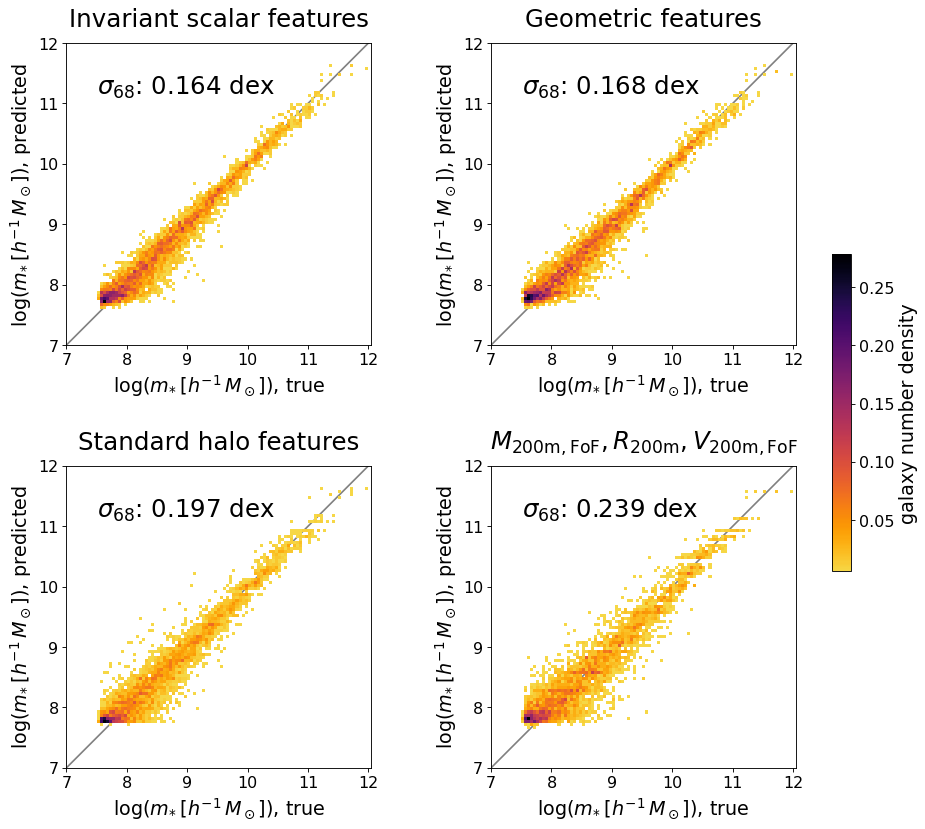
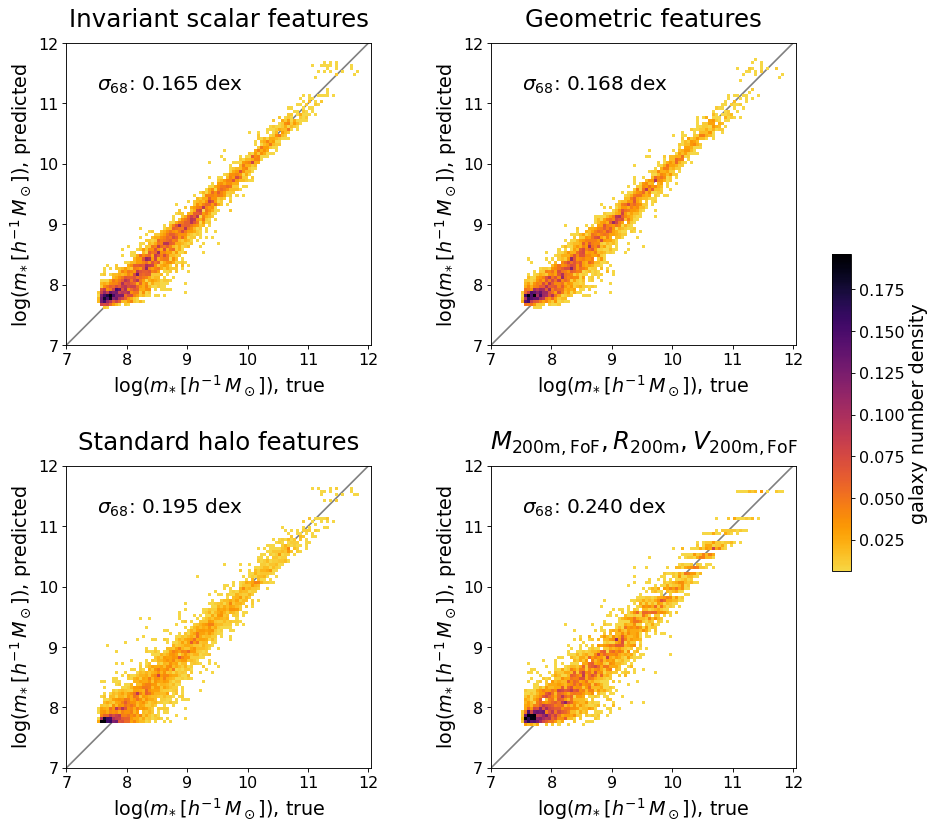
updated eqcosmo figures

diff --git a/chapters/eqcosmo.tex b/chapters/eqcosmo.tex
@@ -146,21 +146,22 @@ The merger trees are run on halos found with the \textsc{rockstar} \citep{behroo
 
 We consider the most massive progenitor branch of the assembly history of each \dark halo in our sample.
 We compile the mass of the halo's most massive progenitor for each of the TNG snapshots. 
-A natural quantity to try to predict would be the fraction of the $z=0$ halo mass accreted as a function of redshift.
+A natural quantity to try to predict would be the mass of the most massive progenitor halo as a function of redshift; this could be made dimensionless  by considering the fraction of mass accreted by the halo's most massive progenitor compared to its $z=0$ mass.
 However, different halos can be traced back to different redshifts, and this inconsistency causes difficulties at the prediction stage.
-We thus choose to learn the scale factor $a$ (related to the redshift $z$ by $a=1/(1+z)$) at which the halo has accreted a given fraction of its mass, $M_\mathrm{vir}(a)$/$M_\mathrm{vir}(a=1)$, where $M_\mathrm{vir}$ is given by the \field{HalopropMvir} field of the SC-SAM data and $a=1$ is the present day.
-This swapped quantity gets at the same information as the natural quantity but is more stable in predictions.
-We compute this at XXX linearly spaced mass fractions between 0 and 1 (exclusive). 
+We thus choose to learn the scale factor $a$ (related to the redshift $z$ by $a=1/(1+z)$) at which the halo has accreted a given fraction of its mass along the most massive progenitor branch, $M_\mathrm{vir}(a)$/$M_\mathrm{vir}(a=1)$, where $M_\mathrm{vir}$ is given by the \field{HalopropMvir} field (equivalent to the TNG field \field{Group\_M\_TopHat200}) of the SC-SAM data and $a=1$ is the present day.
+(We note that this is a different mass definition than that used throughout this work, but we only consider mass ratios so we expect this will not matter.)
+This swapped quantity, the scale factor $a$ as a function of mass fraction, gets at the same information as the natural quantity but is more stable in predictions.
+We compute this at mass fractions linearly spaced by 0.025 between 0 and 1 (exclusive), giving 39 values. 
 As we only have the history at a finite number of snapshots, we perform a linear interpolation between the mass fractions and scale factors to estimate the scale factor at a given mass fraction.
-If the target mass fraction is outside the bounds of the data (for example, if the initial mass of the halo was a larger mass fraction than our tabulated values), we assign the scale factor to be that at which the mass fraction is closest.  
+If the target mass fraction is outside the bounds of the data (for example, if the initial mass of the halo was a larger mass fraction than our tabulated values), we assign the scale factor to be that at which the mass fraction is closest.
 
 
 
-\subsection{Galaxy properties}
+\subsection{Baryonic properties and uncertainties}
 \label{sec:galprops}
 
 % TODO: add uncertainty info here
-We aim to predict the properties of central galaxies hosted by a given dark matter halo.
+One of the aims of this work is to predict the baryonic properties of central galaxies hosted by a given dark matter halo.
 In this section we detail these properties and the associated choices we make. 
 We choose to predict only scalar properties for this work, as we focus on enforcing \emph{invariance} to physical symmetries, though we could also predict vector and higher order properties and enforce \emph{equivaraince}.
 
@@ -178,6 +179,12 @@ The $\mbh$ value is that given by the TNG field \field{SubhaloBHMass} of the sub
 For galaxies with zero black hole mass, we assign the value to be half of the minimum black hole mass in our sample. 
 We use the $g-i$ color comptuted from synthetic SDSS photometry as provided by the TNG project \citep{nelson_first_2018}; the photometry is in units of AB magnitudes. 
 The distributions of these properties as a function of \dark halo mass are shown in the left column of Figure~\ref{fig:galprops}.
+
+We estimate the uncertainties on these baryonic properties based on the effects of small initial perturbations in cosmological simulations and how these propogate to differences in baryonic properties over time.
+We quantify this using the simulations of \cite{Genel2019}, which are pairs of IllustrisTNG with small random initial particle displacements.
+The $z=0$ galaxies are then matched across the pairs, and the pairwise differences between their properties can be computed; the standard deviations of these pairwise differences represent a lower limit on the retrievable information on the properties.
+We refer to this as the chaotic limit, and use it as a comparison for our baryonic property predictions.
+Specifically, we use the $\epsilon=1$ resolution level simulations which is similar to but slightly worse than the resolution of TNG100-1, so the limit is slightly optimistic (the true lower limit is actually lower than the limit shown).
 
 
 \section{The invariant scalars approach}
@@ -453,7 +460,7 @@ It is also possible that the other symmetries are more dominant; in future work 
 
 \begin{figure}
     \centering
-    \includegraphics[width=0.8\columnwidth]{pred_galprops.png}
+    \includegraphics[width=0.87\columnwidth]{pred_galprops.png}
     \caption{Distributions and predictions of galaxy properties using our invariant scalars approach and other benchmark feature sets, for the test sample. 
     Each row shows a different galaxy property: stellar mass $\mstellar$, specific star formation rate $\ssfr$, stellar radius $\rstellar$, specific stellar angular momentum $\jstellar$, $\gminusi$ color, and black hole mass per stellar mass $\mbhpermstellar$. 
     The left column shows the property as a function of halo mass $\Mfof$. 
@@ -489,29 +496,38 @@ The clearest improvements of the scalars over the standard features are seen in 
 Similarly to the stellar mass case, we do not see a clear difference between predictions with the scalar features and geometric features, indicating that the model is able to learn the rotational invariance from the data even when the features are not invariant.
 
 
-\subsection{The mass assembly history encoded in the present-day halo shape}
+\subsection{Predicting the halo mass assembly history}
 
 
 \begin{figure}
     \centering
-    %\includegraphics[width=0.5\columnwidth]{pred_mah.png}
-    \caption{The predicted mass assembly history of a halo based on the invariant shape scalars. The top panel shows the MAHs of a random selection of halos from the test set, and the predicted scale factor at each mass fraction. The middle panel shows the fractional residuals between the two, and the bottom shows the inner 68th percentile of the predictions for all of our test set, compared to that of the distribution of MAHs used in training. \ksf{rn im plotting test set for latter, make sure to switch to test!}}
+    \includegraphics[width=0.6\columnwidth]{pred_amfrac.png}
+    \caption{The predicted mass assembly history (MAH) of a halo based on the invariant shape scalars, parameterized by the scale factor at which the halo's most massive progenitor accreted a given fraction of its mass. The top panel shows the MAHs of a random selection of halos from the test set (closed circles), and the predicted scale factor at each mass fraction. The middle panel shows the fractional residuals between the two, and the bottom shows the inner 68th percentile of the predictions for all of our test set, compared to that of the distribution of MAHs used in training. \ksf{rn im plotting test set for latter, make sure to switch to test!}}
     \label{fig:mah}
 \end{figure}
 
 
-\subsection{Understanding the relative importance of the halo shape features}
-
-The feature subsets we consider are: only mass features; mass and position features; mass and velocity features; mass, position and velocity features.
-We also investigate limiting to certain orders in $O(x)+O(v)$: 0, 2, and 4.
-Finally, we consider different numbers of bins, as well as excluding cross-bins.
-
-\begin{figure}
+\begin{figure*}
     \centering
-    %\includegraphics{}
-    \caption{The precision on the predictions of the given property when using the denoted subset of invariant scalars.}
-    \label{fig:features}
-\end{figure}
+    \subfloat[\label{fig:pred_amfrac_hi}]{\includegraphics[width=0.45\textwidth]{pred_amfrac_hi.png}}
+    \hspace{2em}
+    \subfloat[\label{fig:pred_amfrac_lo}]{\includegraphics[width=0.45\textwidth]{pred_amfrac_lo.png}}
+    \caption{}
+\end{figure*}
+
+
+% \subsection{Understanding the relative importance of the halo shape features}
+
+% The feature subsets we consider are: only mass features; mass and position features; mass and velocity features; mass, position and velocity features.
+% We also investigate limiting to certain orders in $O(x)+O(v)$: 0, 2, and 4.
+% Finally, we consider different numbers of bins, as well as excluding cross-bins.
+
+% \begin{figure}
+%     \centering
+%     %\includegraphics{}
+%     \caption{The precision on the predictions of the given property when using the denoted subset of invariant scalars.}
+%     \label{fig:features}
+% \end{figure}
 
 
 \section{Discussion}
@@ -528,6 +544,9 @@ Topics/points for discussion section:
     \item Other properties we should predict (position: discuss offsets bw dark and hydro; spin: pseudo-vector)
     \item particles have large time derivative; galaxy has relatively small time derivative! we could show this with our scalars. discuss time dependence.
 \end{itemize}
+
+\section{Summary}
+\label{sec:summary}
 
 
 \section{Chapter Acknowledgements}
